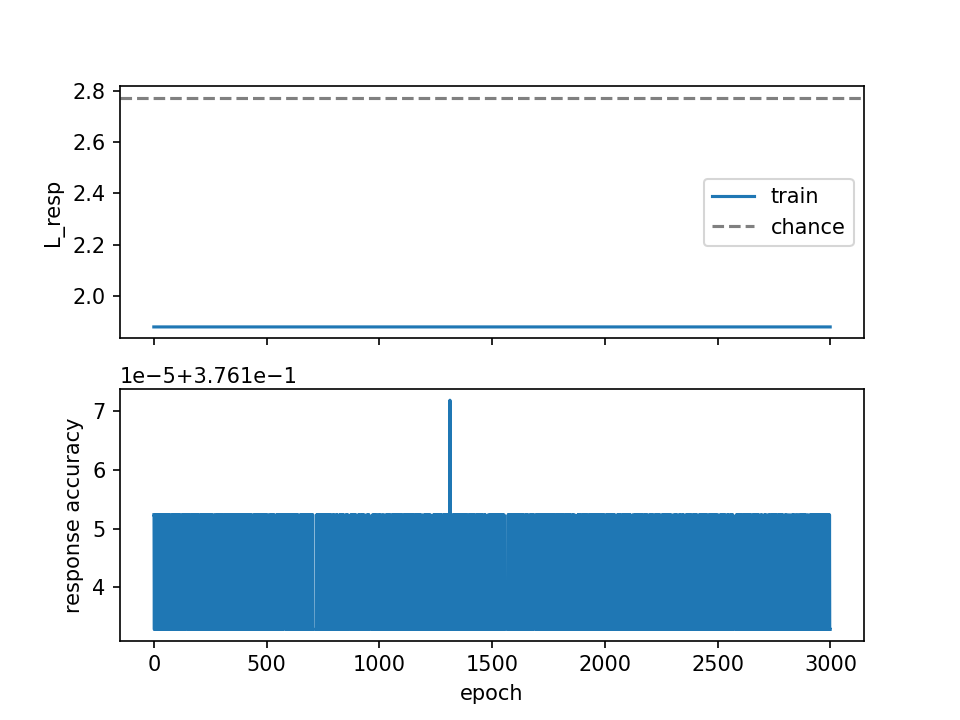
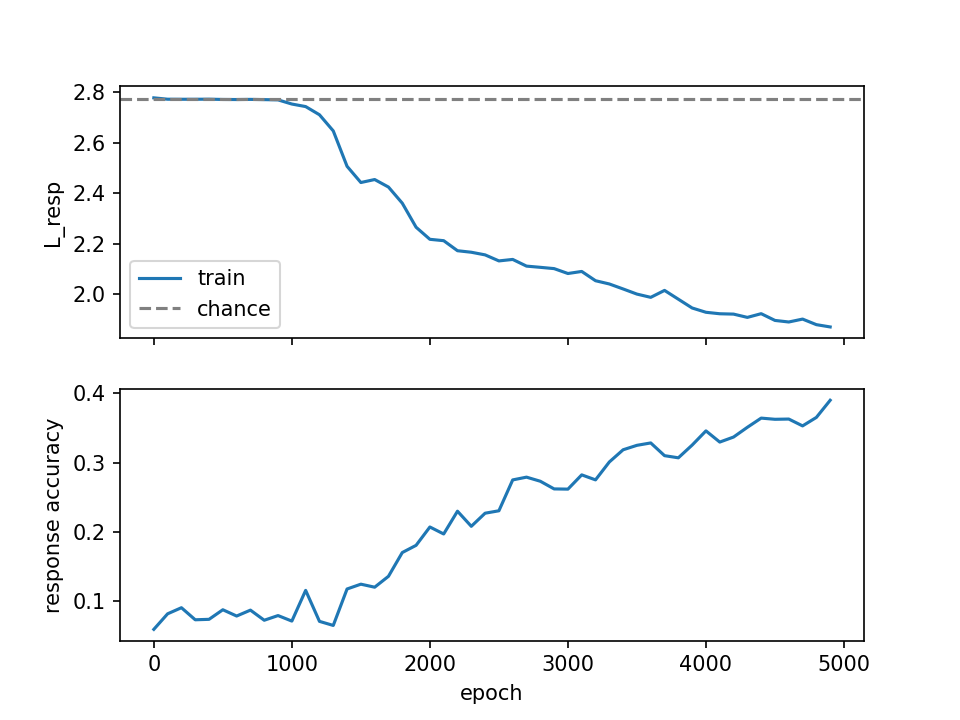
heheheh

diff --git a/Project/src/project/poission_spike_model.py b/Project/src/project/poission_spike_model.py
@@ -47,16 +47,16 @@ def model(X, Y):
     N_LAYERS = 3
     SPARSITY = 1.0
     TRAIN = True
-    NUM_EPOCHS = 3000
+    NUM_EPOCHS = 5000
     
     network = Network(default_params=default_params)
     with network:
         inp = Population(SpikeInput(max_spikes=BATCH_SIZE * calc_max_spikes(X)), INPUT_NUM, record_spikes=True)
-        hid_1 = Population(LeakyIntegrateFire(v_thresh=0.7, v_reset=0.0, tau_mem=20.0,
+        hid_1 = Population(LeakyIntegrateFire(v_thresh=0.7, v_reset=0.0, tau_mem=50.0,
                                         tau_refrac=1.0), HIDDEN_NUM, record_spikes=True)
-        hid_2 = Population(LeakyIntegrateFire(v_thresh=0.7, v_reset =0.0, tau_mem=20.0,
+        hid_2 = Population(LeakyIntegrateFire(v_thresh=0.7, v_reset =0.0, tau_mem=50.0,
                                         tau_refrac=1.0), HIDDEN_NUM, record_spikes=True)
-        hid_3 = Population(LeakyIntegrateFire(v_thresh=0.7, v_reset =0.0, tau_mem=20.0,
+        hid_3 = Population(LeakyIntegrateFire(v_thresh=0.7, v_reset =0.0, tau_mem=50.0,
                                                 tau_refrac=1.0), HIDDEN_NUM, record_spikes=True)
         out = Population(LeakyIntegrate(tau_mem=20.0, readout="var"), OUT_NUM, record_spikes=True)
 
@@ -160,7 +160,7 @@ def loss_plot(NUM_EPOCHS, network, serialiser, inp, out, X_eval, Y_eval, N_EVAL)
     L_resp_hist, acc_hist = [], []
 
     for e in epochs:
-        network.load((NUM_EPOCHS - 1,), serialiser)
+        network.load((e,), serialiser)
         l_fix , l_resp, acc = evaluate(network, inp, out, X_eval, Y_eval, N_EVAL)
         L_resp_hist.append(l_resp)
         acc_hist.append(acc)
